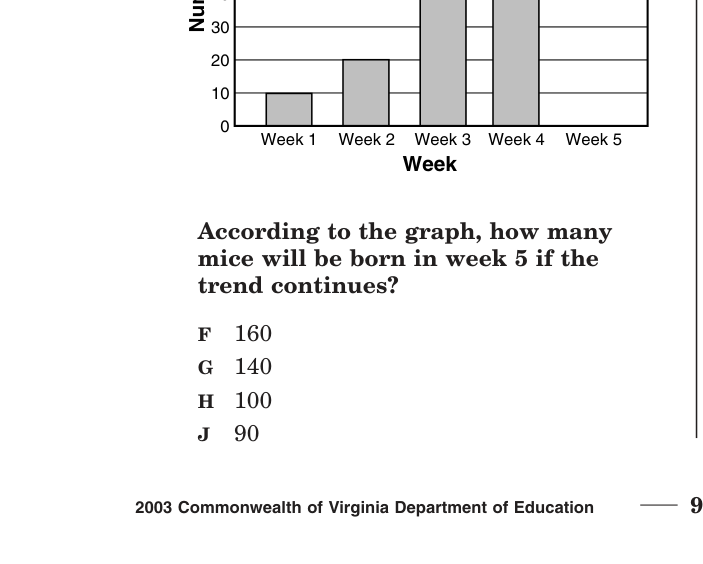
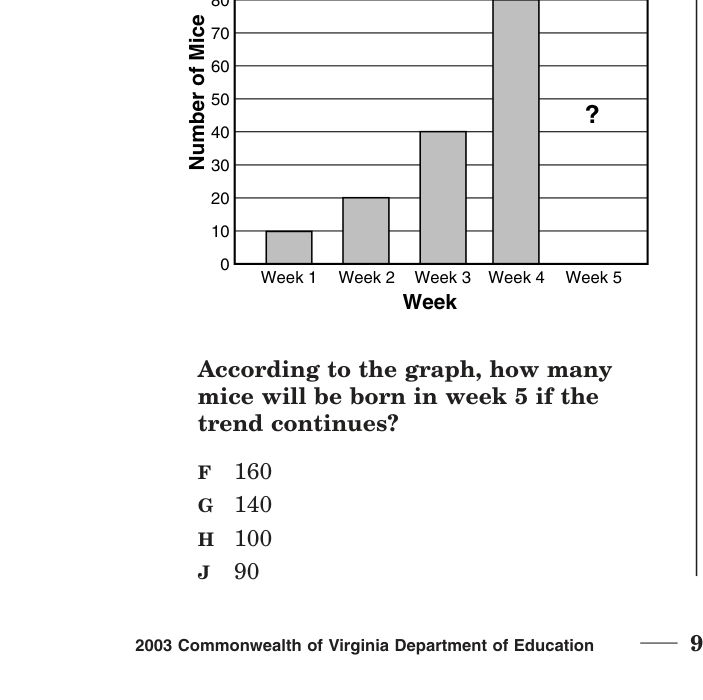
Fix 4 more crop truncations (2001-27, 2001-38, 2003-32, 2003-48)
Audit of the 10 images currently wired into unit pages surfaced four
crops that were missing critical content:

- 2001-27 amylase: graph title "Effect of Amylase Enzyme..." cut off
- 2001-38 osmosis: option J cut off at bottom
- 2003-32 mice/week: graph title and upper y-axis cut off
- 2003-48 embryo chart: options H and J cut off (Q48 takes full left
  column on a 3-Q page but auto-layout gave it only a half)

Added OVERRIDES entries for each with explicit crop coordinates.

diff --git a/sol-prep/tools/crop-images-v2.py b/sol-prep/tools/crop-images-v2.py
@@ -238,6 +238,20 @@ OVERRIDES = {
     # 2001 p9: Q16 is small + Q17 has a big cell-features table that needs 2/3 of
     # the left column. Auto-halves put Q17's crop too low, missing the table.
     (2001, 17): (9, (0, 420, 640, 1220)),
+    # 2001 p11: Q27 amylase graph's title is just above the auto-layout's slot
+    # start. Extend up ~60px to include "Effect of Amylase Enzyme..." heading.
+    (2001, 27): (11, (637, 750, 1275, 1590)),
+    # 2001 p16: Q38 osmosis — content extends slightly past the auto-half, cutting
+    # off option J. Extend bottom ~90px.
+    (2001, 38): (16, (0, 30, 640, 900)),
+    # 2003 p9: 6-Q page, Q32 "Number of Mice Born by Week" graph + options need
+    # more vertical space than auto-thirds allow. Extend up to include graph title
+    # and full y-axis; extend down to include options.
+    (2003, 32): (9, (0, 1020, 703, 1720)),
+    # 2003 p13: 3-Q page where Q48 embryo chart actually occupies the ENTIRE left
+    # column (not just half). Auto-layout assumes n_left >= n_right but this
+    # page is flipped (1 left, 2 right).
+    (2003, 48): (13, (0, 30, 703, 1720)),
     # 2004 p10: Q29's Population Fluctuations graph sits above the stem, taking
     # more vertical space than auto-halves allow. Extend crop upward to capture
     # the graph title + full y-axis range + legend; bottom stretches to include
